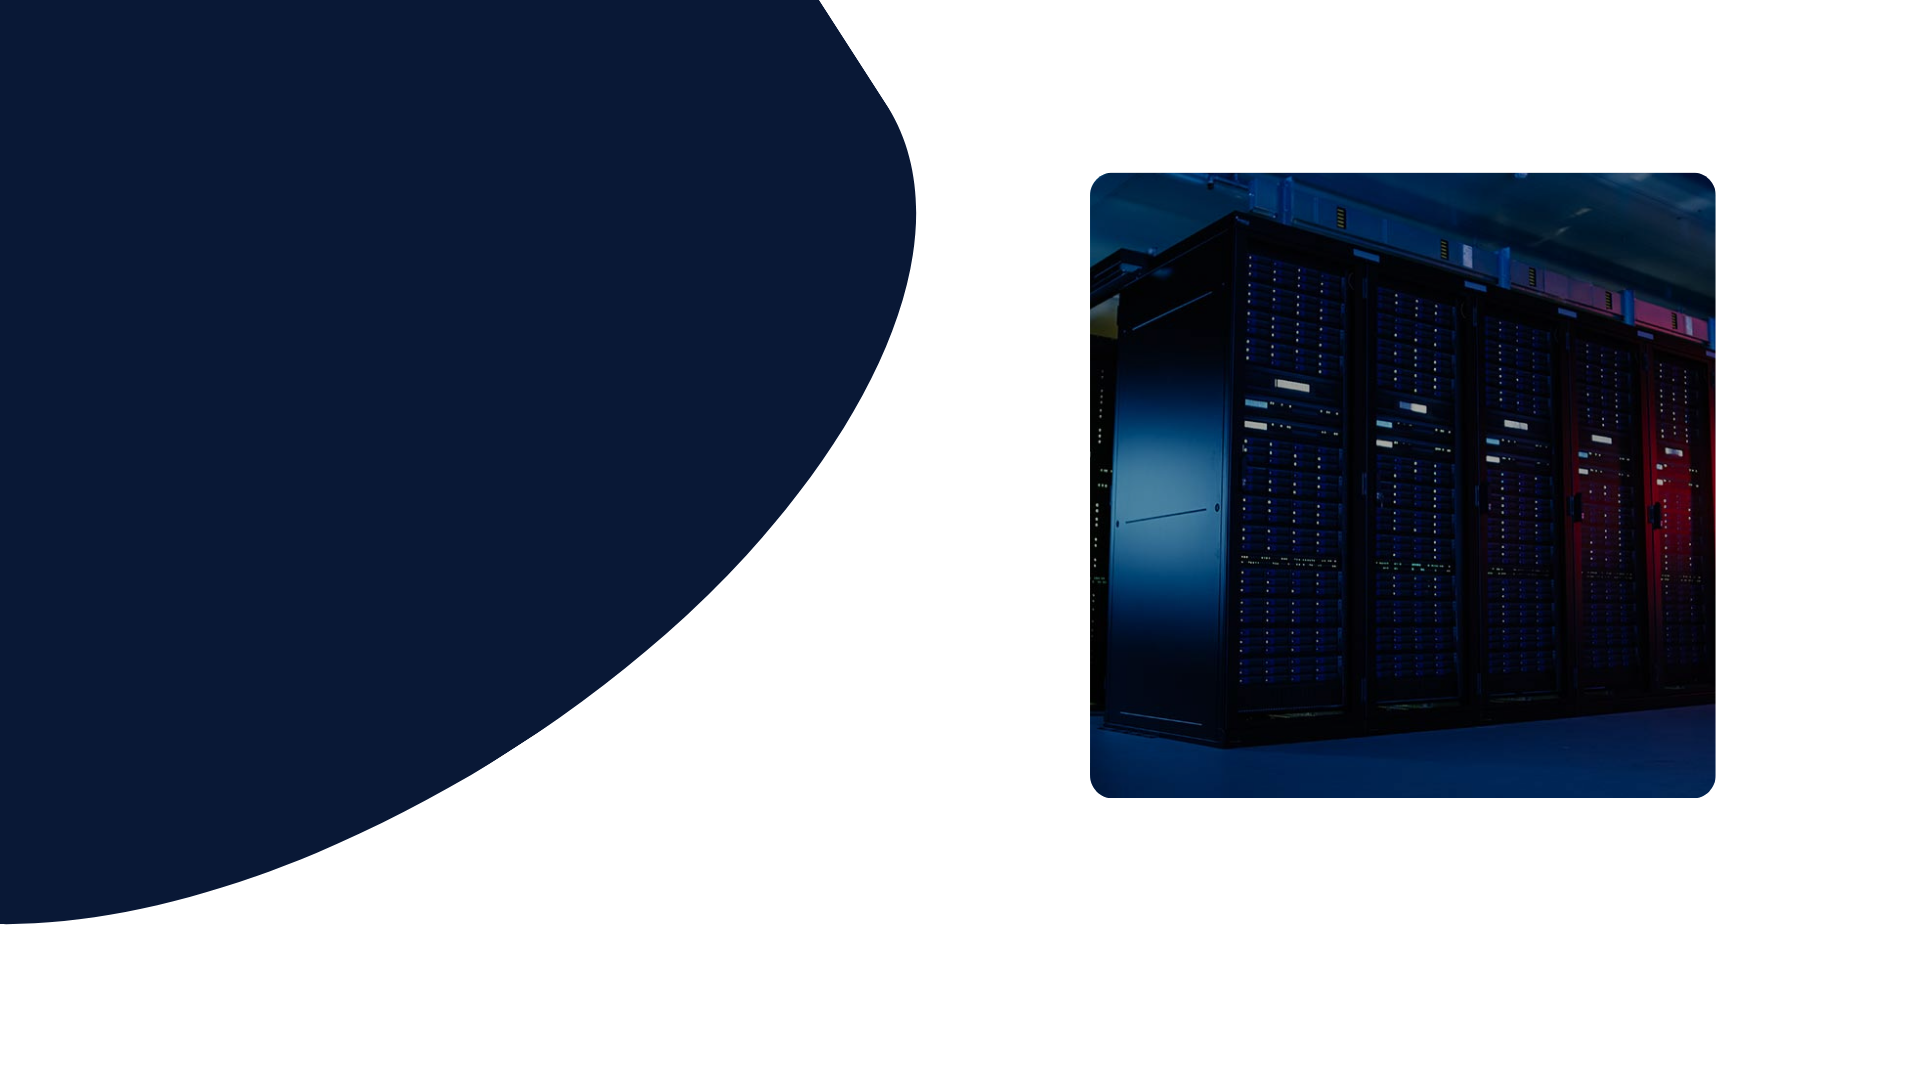
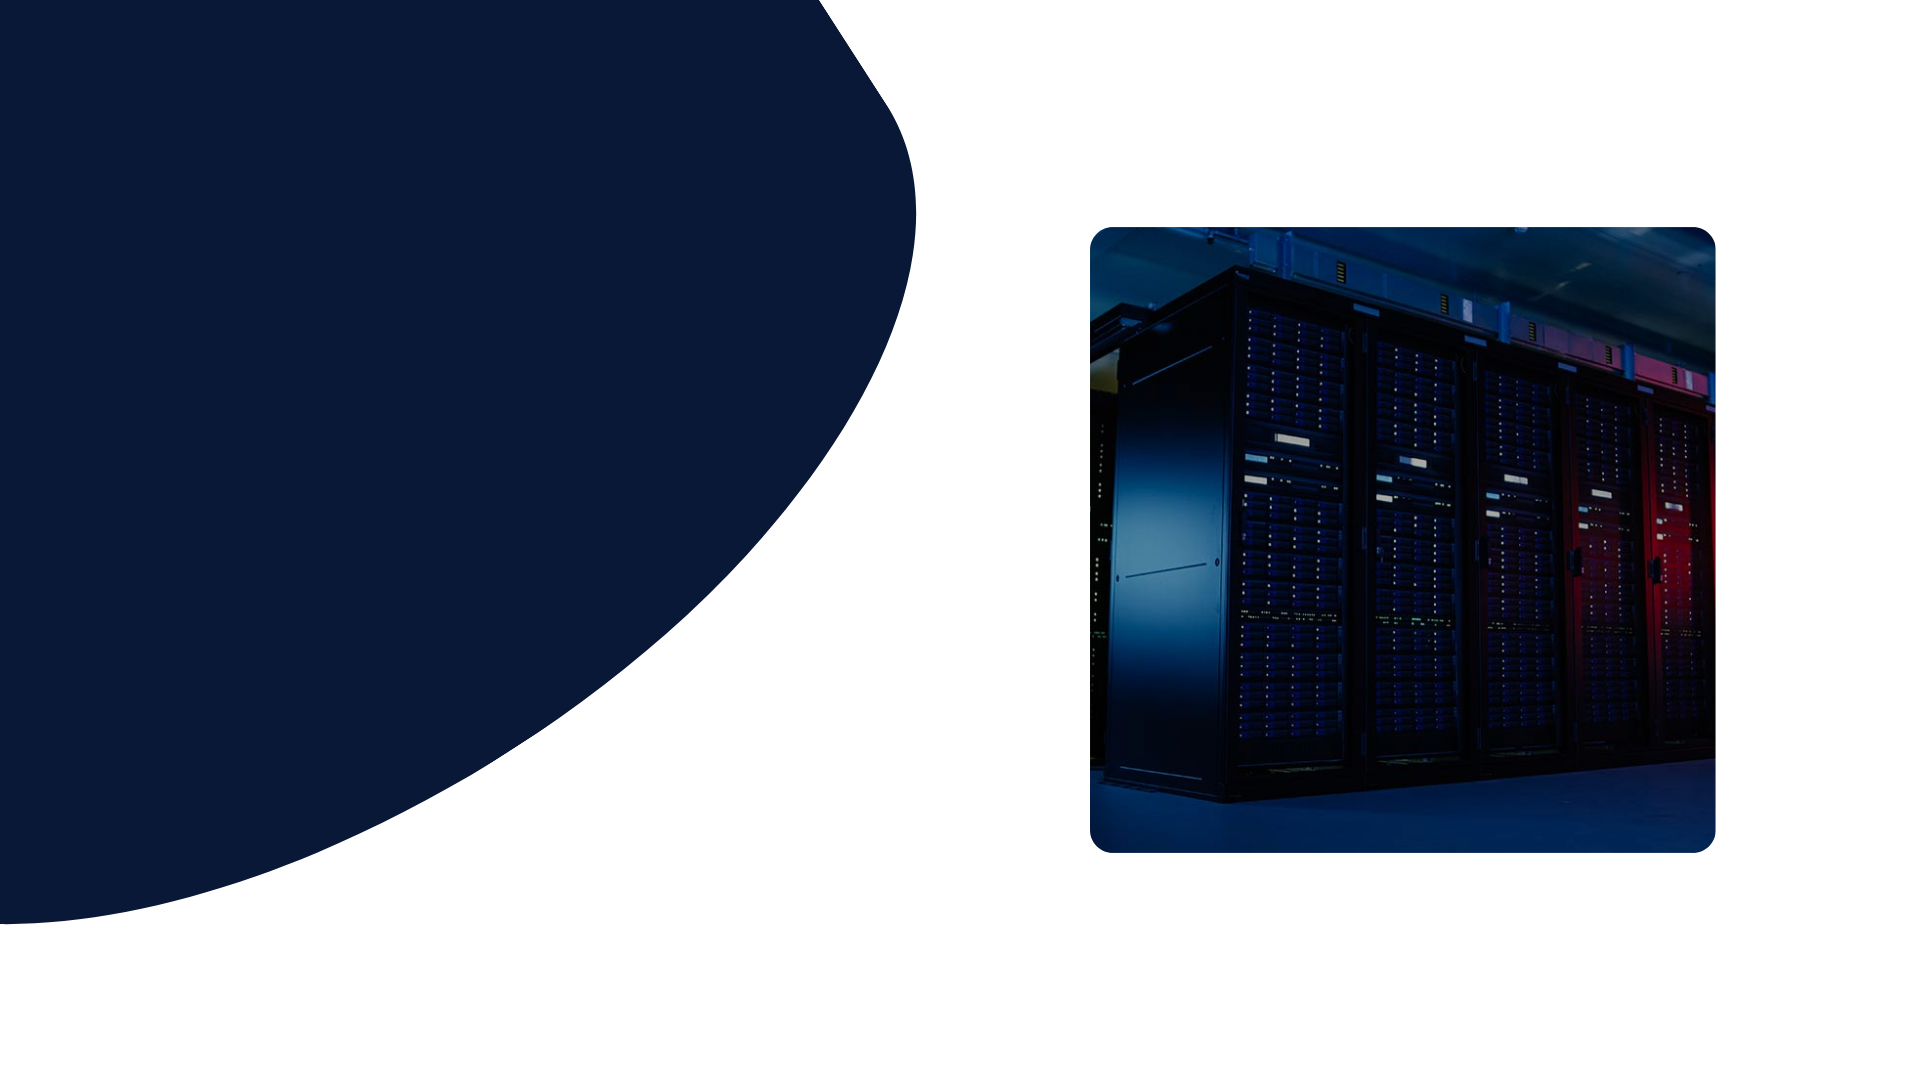
Hero Section Responsiva

Changed region(s): [[0.5625, 0.1528, 0.9062, 0.7944]]

diff --git a/Site/teste.css b/Site/teste.css
@@ -4,7 +4,6 @@ body {
 }
 body::-webkit-scrollbar{
     width: 10px;
-    pa
 }
 body::-webkit-scrollbar-thumb {
     background: #091836;
@@ -77,9 +76,10 @@ cores
 /* background */
 .background {
     background: url('imagens/bg.png');
+    background-position: center;
     background-size: cover;
     width: 100%;
-    height: 100vh;
+    height: 99vh;
     justify-content: center;
     z-index: -1;
 }
@@ -113,8 +113,10 @@ cores
     justify-content: space-between;
     width: 500px;
     height: fit-content;
-    padding: 30px;
-    margin-right: 230px;
+    margin-right: 260px;
+}
+.navbar .navBurguer {
+    display: none;
 }
 .navbar .navBtn a {
     color: black;
@@ -659,10 +661,60 @@ cores
     width: 100px;
 }
 
+/* Responsivo landing page */
 
-/* @media (max-width:920px) {
-    .topo .navbar {
+@media (max-width:1550px) {
+    .topo .navBtn {
         display: none;
     }
-}  
-*/
+    .topo .navBurguer {
+        display: flex;
+        justify-content: center;
+        width: fit-content;
+        height: fit-content;
+        margin-right: 50px;
+    }
+    .topo .navBurguer i {
+        color: #000;
+        font-size: 65px;
+    }
+    .topo .background {
+        background: url('imagens/bg1.png');
+    }
+} 
+
+@media (max-width:1230px) {
+    .topo .navBurguer i {
+        color: #fff;
+        font-size: 65px;
+    }
+    .topo .logoImg {
+        margin-left: 30px;
+    }
+    .topo .container-sobre {
+        display: flex;
+        flex-direction: column;
+        height: 1100px;
+    }
+    
+} 
+
+@media (max-width:700px) {
+    .topo .servico-inicio h1 {
+        width: 100px;
+        padding-top: 0;
+        margin-top: 0;
+    }
+    .topo .servico-inicio p {
+        width: 400px;
+    }
+    .topo .container-sobre .texto-sobre p {
+        width: 350px;
+    }
+} 
+
+@media (max-width:530px) {
+    .topo .servico-inicio p {
+        width: 250px;
+    }
+} 

diff --git a/Site/index.html b/Site/index.html
@@ -19,6 +19,9 @@
                     <a href="#">Sobre</a>
                     <a href="login.html">Acessar</a>
                 </div>
+                <div class="navBurguer">
+                    <i class='bx bx-menu'></i>
+                </div>
             </div>
             <div class="container-inicio" id="inicio">
                 <div class="servico-inicio">

diff --git a/Site/cadastro.html b/Site/cadastro.html
@@ -18,6 +18,9 @@
                 <a href="index.html">Sobre</a>
                 <a href="login.html">Acessar</a>
             </div>
+            <div class="navBurguer">
+                <i class='bx bx-menu'></i>
+            </div>
         </div>
         <div class="form-container">
             <div class="formBlue-Cadastro">
